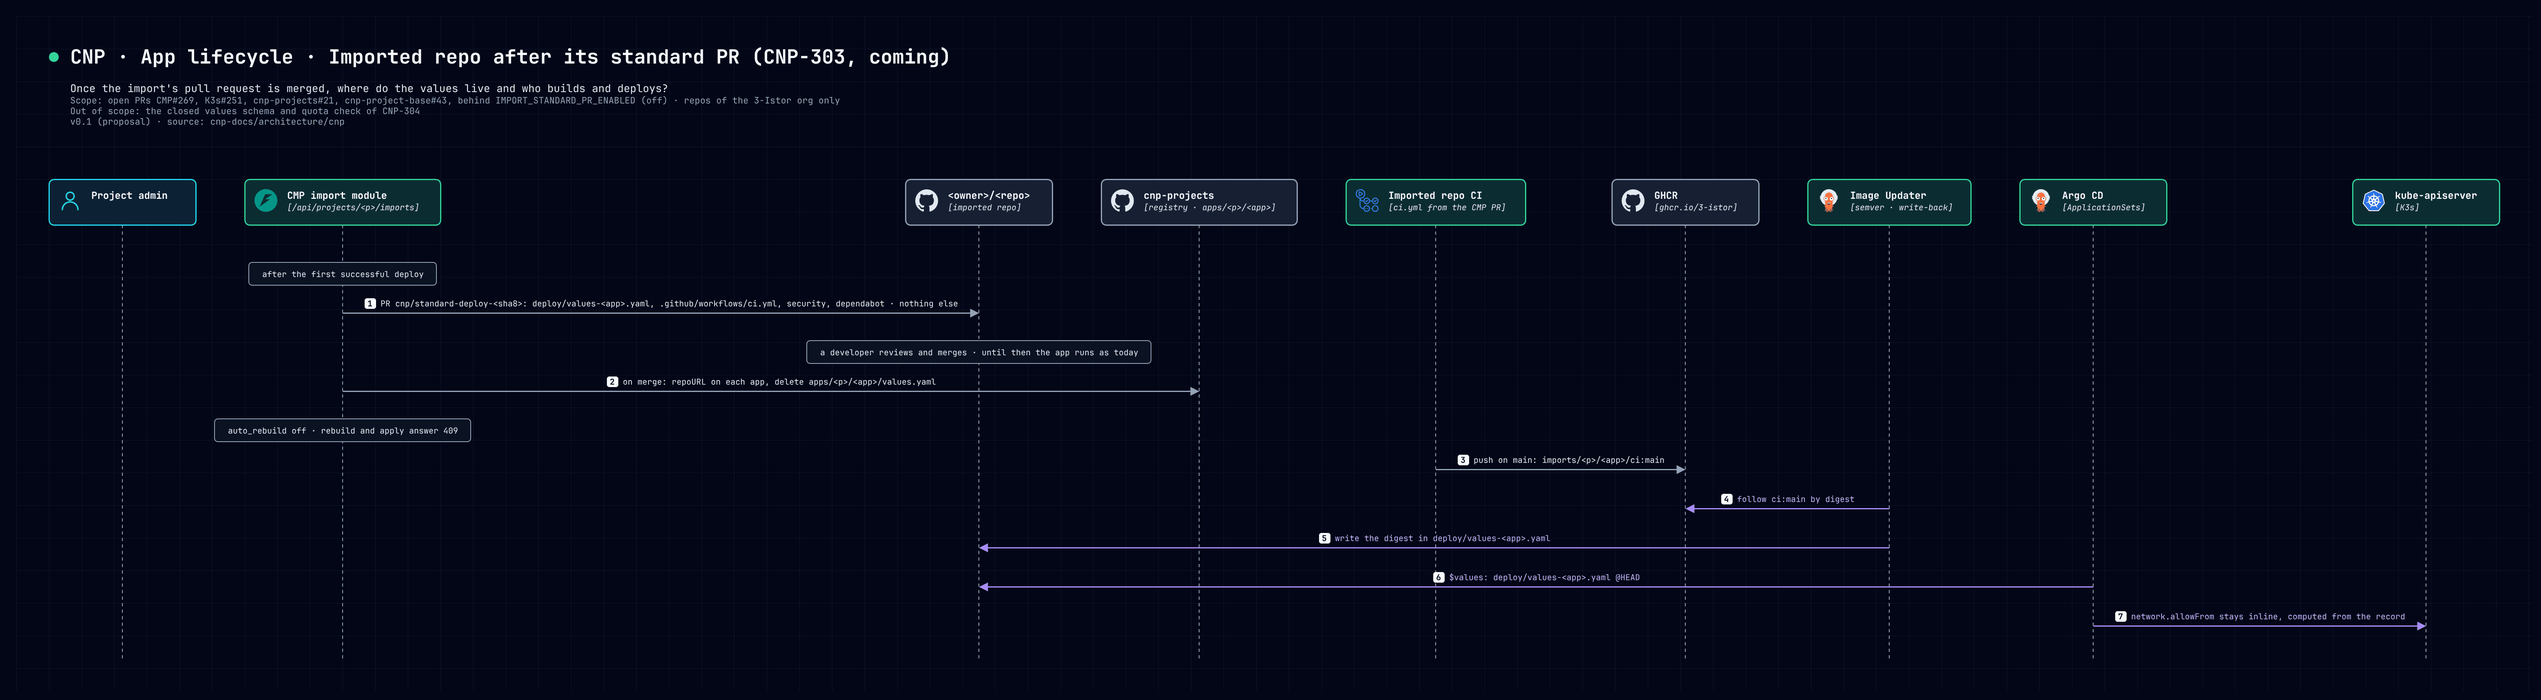
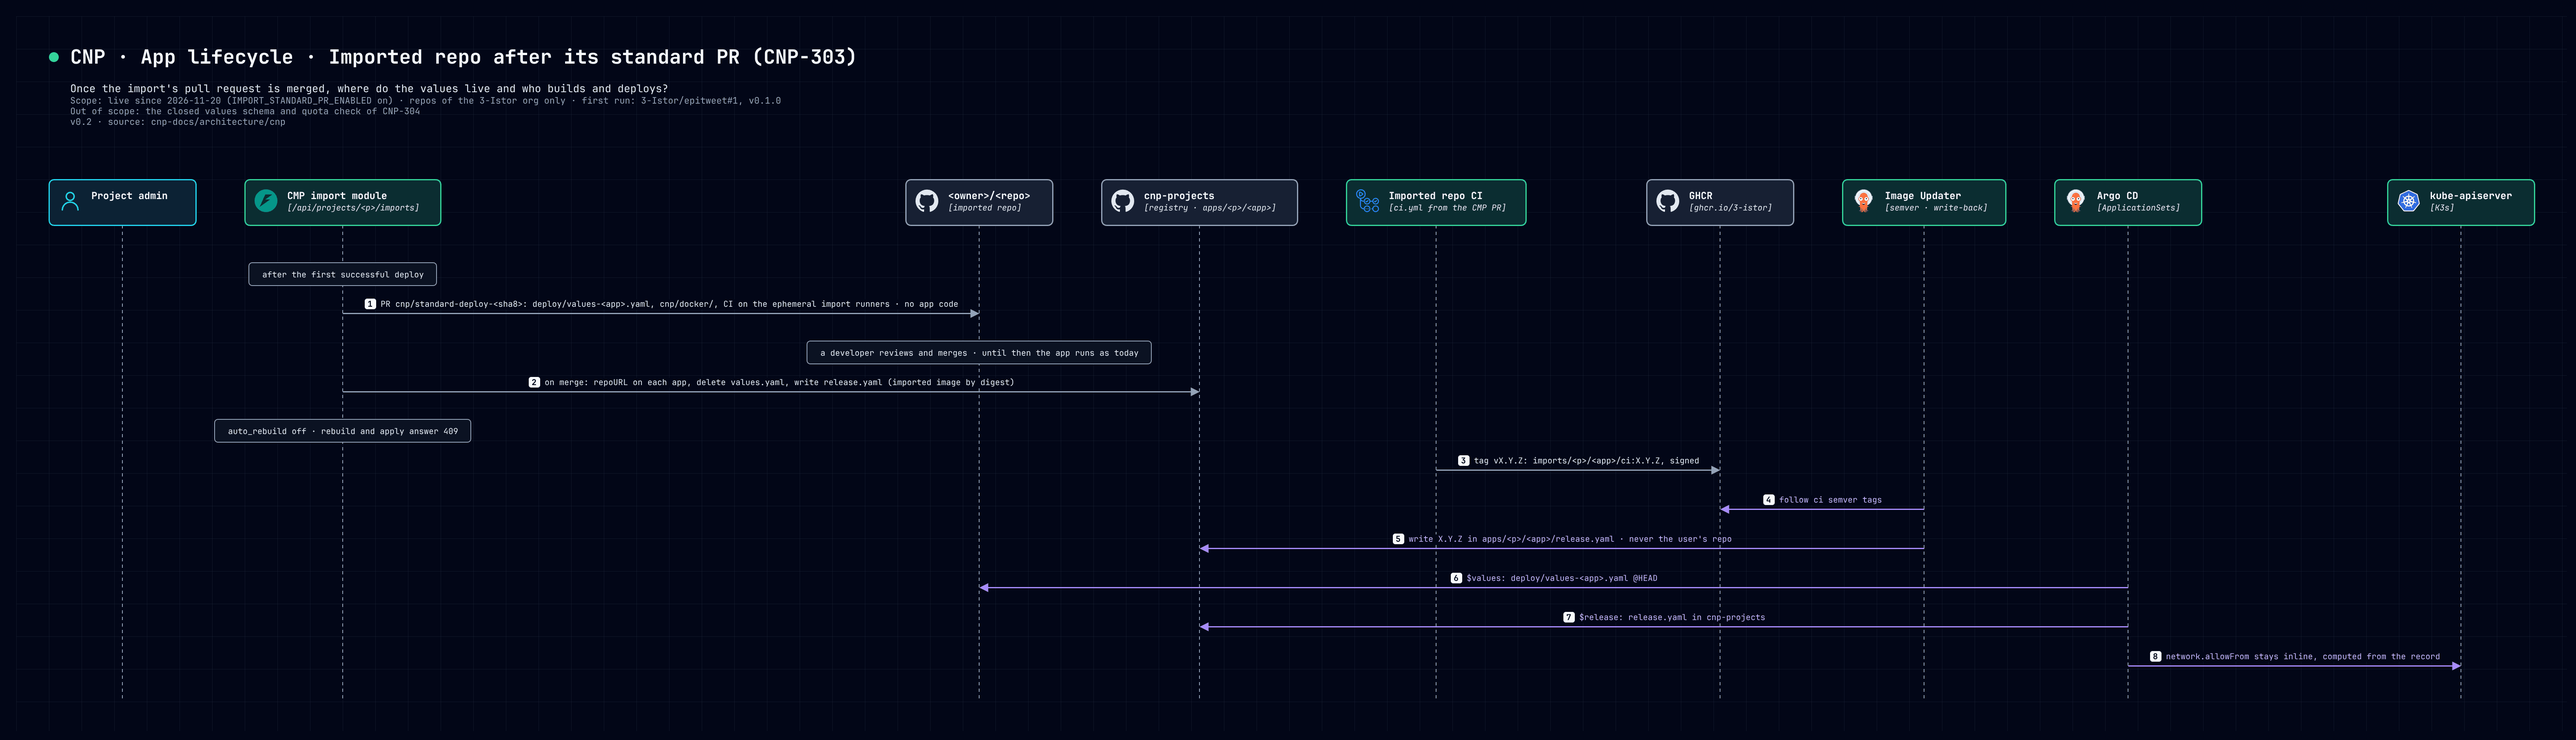
docs(import): the standard PR model is live, releases pinned in cnp-projects (CNP-312) (#59)
Claude-Session: https://claude.ai/code/session_014hcKJ3t2XF99mFNVR2PJmT

diff --git a/docs/09-import-microservices/11-cycle-import.md b/docs/09-import-microservices/11-cycle-import.md
@@ -2,8 +2,9 @@
 
 Cette page suit un repo importé, de l'analyse à la suppression. Elle décrit ce qui est sur
 `main` le 20/11/2026 : CMP `services/imports`, workflow `import.yml` d'extern-project-analyzer,
-ApplicationSet `cnp-apps` de K3s et chart infra-templates. Deux chantiers ouverts changent ce
-modèle. Ils sont décrits à la fin, dans [À venir](#a-venir).
+ApplicationSet `cnp-apps` de K3s et chart infra-templates. Le passage d'un repo importé au
+modèle des templates, en service depuis le 20/11, est décrit à la fin, dans
+[Après la PR standard](#apres-la-pr-standard).
 
 Les étapes d'analyse et d'application sont détaillées dans [Parcours](03-parcours.md). Le parcours
 d'une app créée par template est dans [Cycle de vie : template](10-cycle-template.md).
@@ -121,40 +122,44 @@ Il est décrit dans [Cycle de vie : template](10-cycle-template.md#controle-dorp
 
 Un projet qui a encore un import ne se supprime pas : il faut d'abord supprimer ses imports.
 
-## À venir
+## Après la PR standard
 
-Ces changements sont dans des PRs ouvertes, non fusionnées le 20/11/2026.
-
-### CNP-303 : le repo importé devient la source des valeurs
-
-PRs : CMP#269, K3s#251, cnp-projects#21, cnp-project-base#43. Activé par
-`IMPORT_STANDARD_PR_ENABLED`, coupé par défaut. Seuls les repos de l'organisation 3-Istor sont
-éligibles.
+Depuis le 20/11/2026, une app importée passe au modèle des templates par une PR dans son repo
+(CNP-303). EpiTweet a fait le cycle complet le 20/11 : PR 3-Istor/epitweet#1, puis release
+`v0.1.0`. Seuls les repos de l'organisation 3-Istor sont éligibles.
 
 ![Repo importé après sa PR standard](../01-architecture/diagrams/lifecycle-import-pr.light.png#only-light)
 ![Repo importé après sa PR standard](../01-architecture/diagrams/lifecycle-import-pr.dark.png#only-dark)
 
 - Après le premier déploiement réussi, le CMP ouvre une PR `cnp/standard-deploy-<sha8>` dans le
-  repo importé. Elle ajoute `deploy/values-<app>.yaml` pour chaque app, la CI des templates dans
-  `.github/workflows/ci.yml`, plus `security.yml`, `dependabot.yml` et `cnp-verify.yml`. Elle ne
-  touche pas au code de l'app.
+  repo importé. Elle ajoute `deploy/values-<app>.yaml` pour chaque app, les Dockerfiles réparés
+  par l'analyseur dans `cnp/docker/`, la CI des templates dans `.github/workflows/ci.yml`, plus
+  `security.yml`, `dependabot.yml` et `cnp-verify.yml`. Elle ne touche pas au code de l'app.
+- Tous ces workflows tournent sur les runners éphémères des imports, jamais sur un runner
+  persistant. La CI construit au plus deux images à la fois. Le scan d'image de `security.yml`
+  est coupé : l'analyseur scanne déjà les images, puis Trivy dans le cluster.
 - Tant que la PR n'est pas fusionnée, rien ne change. Les apps tournent sur la copie de la
   plateforme.
-- À la fusion, un commit dans cnp-projects pose `repoURL` sur chaque app et supprime son
-  `apps/<p>/<app>/values.yaml`.
-- Argo CD lit alors `deploy/values-<app>.yaml` dans le repo importé. `network.allowFrom` reste
-  calculé depuis le registre et écrit en ligne : le repo ne peut pas l'élargir.
-- La CI du repo construit `ghcr.io/3-istor/imports/<p>/<app>/ci:main`. Un Image Updater suit ce
-  tag par digest et écrit le digest dans le fichier de valeurs.
+- À la fusion, un seul commit dans cnp-projects pose `repoURL` sur chaque app, supprime son
+  `apps/<p>/<app>/values.yaml` et écrit `apps/<p>/<app>/release.yaml` : l'image importée,
+  épinglée par digest jusqu'à la première release.
+- Argo CD lit alors `deploy/values-<app>.yaml` sur la branche par défaut du repo importé, puis
+  `release.yaml` dans cnp-projects. La release ne peut pas vivre dans une autre branche du même
+  repo : Argo CD refuse deux révisions d'un même repo dans une application.
+- `network.allowFrom` reste calculé depuis le registre et écrit en ligne : le repo ne peut pas
+  l'élargir.
+- Une release est un tag `vX.Y.Z` du repo importé. La CI publie et signe
+  `ghcr.io/3-istor/imports/<p>/<app>/ci:X.Y.Z`. Un Image Updater écrit ce tag dans
+  `release.yaml` de cnp-projects. La plateforme n'écrit jamais dans le repo importé.
 - Le rebuild de la plateforme s'arrête. `rebuild` et `apply` répondent 409.
 
 Après la fusion, on change une valeur d'une app importée comme pour une app de template : par
-un commit dans `deploy/values-<app>.yaml` du repo importé.
+un commit dans `deploy/values-<app>.yaml` du repo importé. On la met en production par un tag.
 
 ### CNP-304 : schéma fermé et écritures tracées
 
-PRs : infra-templates#36, CMP#268, template-app-webapp-python-fastapi-react#77,
-template-html-css#23, cnp-docs#57.
+En service depuis le 20/11/2026 : infra-templates#36, CMP#268,
+template-app-webapp-python-fastapi-react#77, template-html-css#23, cnp-docs#57.
 
 - `values.schema.json` du chart devient fermé. Une clé inconnue ou une valeur hors bornes fait
   échouer la CI de l'app et le rendu d'Argo CD.
